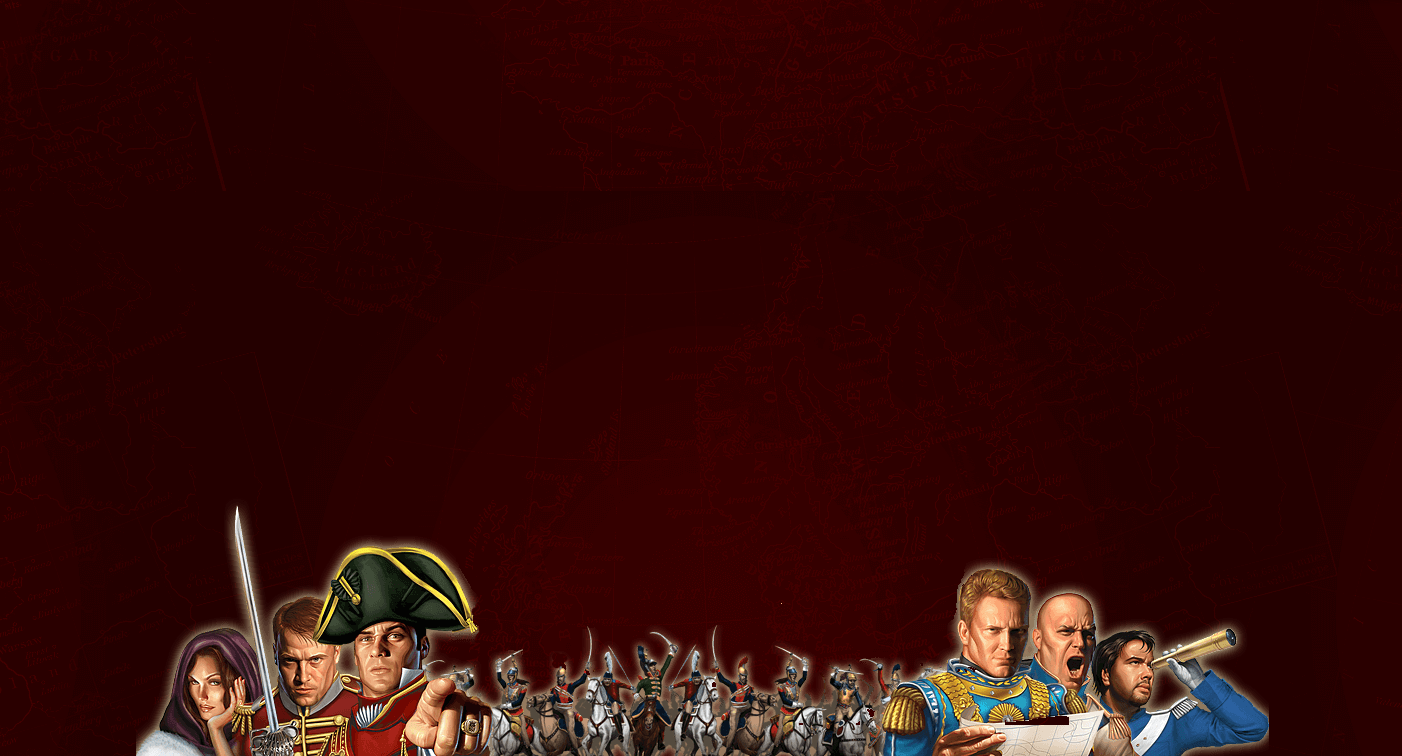
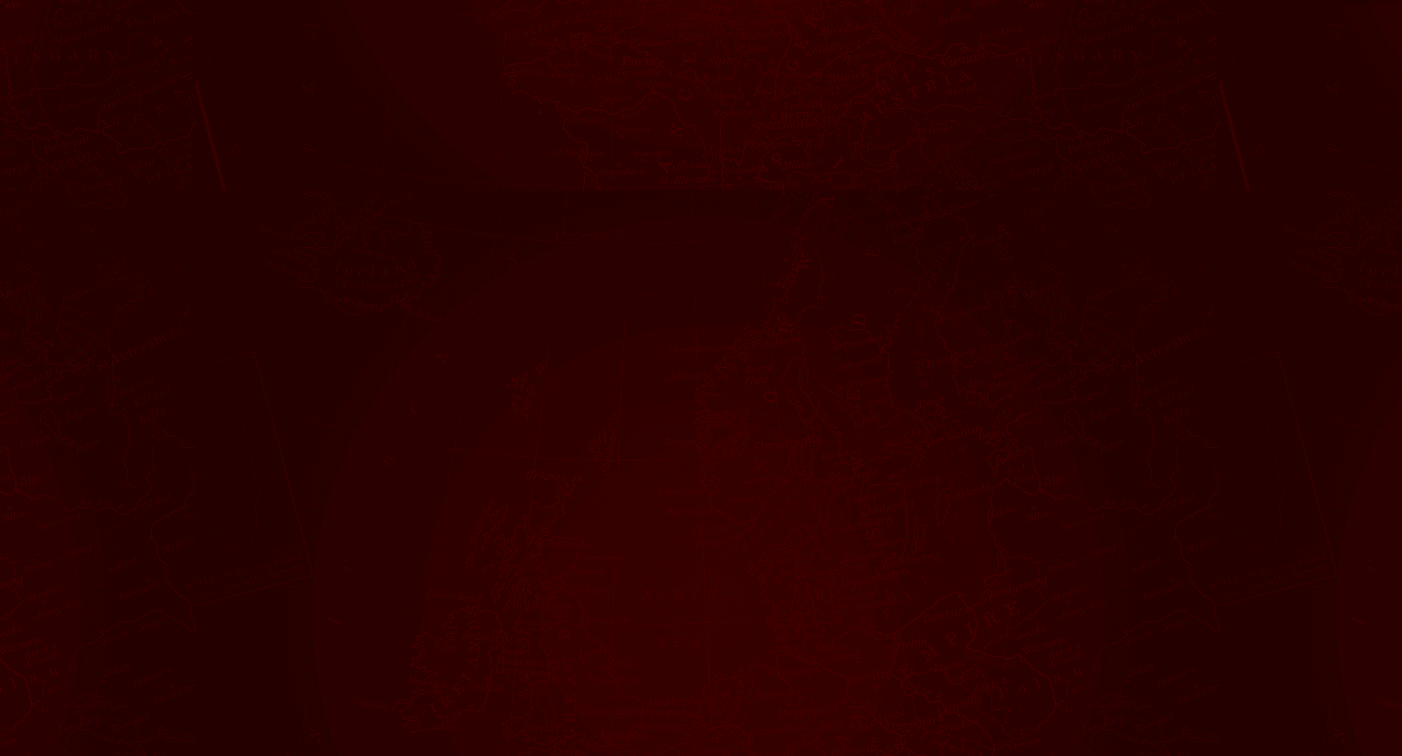
[#75] Viraj/Chandrakant - Bug fixed : removed unnecessary image.
What changes have you made?

* Removed unnecessary image from eaach page.
* Added button to go to login page from signup page.

Why do we need this change?

* To allow user to go to login page from signup page

What can this change impact?

Changed region(s): [[0.092, 0.6693, 0.9201, 1.0]]

diff --git a/public/login.html b/public/login.html
@@ -8,7 +8,8 @@
   <link href="https://fonts.googleapis.com/css?family=Alegreya" rel="stylesheet">
   <link href="https://fonts.googleapis.com/css?family=UnifrakturCook:700" rel="stylesheet">
   <link href="https://fonts.googleapis.com/css?family=Bellefair" rel="stylesheet">
-  <script type="text/javascript" src="./js/index.js" charset="utf-8"></script>
+  <link href="https://fonts.googleapis.com/css?family=Alegreya+Sans" rel="stylesheet">
+  <script type="text/javascript" src="./js/login.js" charset="utf-8"></script>
   <script defer src="https://use.fontawesome.com/releases/v5.0.7/js/all.js"></script>
 </head>
 
@@ -25,11 +26,11 @@
       <section class="fieldset">
         <div class="form-input">
           <label for="userName">username</label>
-          <input id="userName" type="text" name="username" value="" />
+          <input type="text" name="username" value="" />
         </div>
         <div class="form-input">
           <label for="password">password</label>
-          <input type="password" id="password" name="password" value="" />
+          <input type="password" name="password" value="" />
         </div>
         <input onclick="login()" type="button" value="Login">
       </section>
@@ -44,22 +45,25 @@
 
   <div class="sign-up-form overflow-model popupContent">
     <div id="sign-up-form">
+      <div class="close">
+        <a id="close-popup-button" href="login.html"><i class="fa fa-times"></i></a>
+      </div>
       <section class="fieldset">
         <div class="form-input">
           <label for="name">name</label>
-          <input id="name" type="text" name="name" value="" />
+          <input type="text" name="name" value="" />
         </div>
         <div class="form-input">
           <label for="userName">username</label>
-          <input id="userName" type="text" name="username" value="" />
+          <input type="text" name="username" value="" />
         </div>
         <div class="form-input">
           <label for="password">password</label>
-          <input type="password" id="password" name="password" value="" />
+          <input type="password" name="password" value="" />
         </div>
         <div class="form-input">
           <label for="password">confirm password</label>
-          <input type="password" id="password" name="password" value="" />
+          <input type="password" name="confirmPassword" value="" />
         </div>
         <input onclick="signup()" type="button" value="create account">
       </section>

diff --git a/public/css/login.css b/public/css/login.css
@@ -5,7 +5,7 @@ html, body {
 body {
   font-family: 'Alegreya', serif;
   text-transform: uppercase;
-  background-image: url("../img/background/background.png");
+  background-image: url("../img/background/backgroundArmy.png");
   background-size: 100% 100%;
   background-attachment: fixed;
 }
@@ -45,17 +45,25 @@ body {
   padding: 20px 20px 0px 20px;
 }
 
+#sign-up-form {
+  padding-top: 10px;
+}
+
 input:not([type="button"]) {
   font-size: 18px;
   padding: 5px 0;
   color: rgb(156, 131, 69);
   appearance: none;
-  font-family: 'Alegreya', serif;
+  font-family: 'Alegreya Sans', sans-serif;
   -webkit-appearance: none;
   outline: 0;
   border: none;
   background: none;
   border-bottom: 1px solid rgb(156, 131, 69);
+}
+
+#sign-up-form input:not([type="button"]) {
+  padding: 3px 0px;
 }
 
 input:not([type="button"]):hover {
@@ -137,4 +145,10 @@ input[type="button"]:focus {
 
 .popupContent {
   animation: animatezoom 0.6s;
+}
+
+#close-popup-button {
+  margin-left: 100%;
+  font-size: 20px;
+  color: #EDC35A;
 }

diff --git a/public/js/index.js b/public/js/index.js
@@ -91,8 +91,3 @@ const closePopup = function(){
   document.getElementById('bluebutton').style.visibility = 'visible';
   document.getElementById('helpButton').style.visibility = 'visible';
 };
-
-const showSignupPopup = () => {
-  document.querySelector('.login-form').style.display = 'none';
-  document.querySelector('.sign-up-form').style.display = 'block';
-};

diff --git a/public/js/login.js b/public/js/login.js
@@ -1,0 +1,12 @@
+const showSignupPopup = () => {
+  document.querySelector('.login-form').style.display = 'none';
+  document.querySelector('.sign-up-form').style.display = 'block';
+};
+
+const login = () => {
+  return true;
+};
+
+const signup = () => {
+  return true;
+};

diff --git a/public/css/index.css b/public/css/index.css
@@ -144,6 +144,7 @@ font-size: larger;
   height: 25px;
   width: 30px;
 }
+
 .mode{
   font-size: 30px;
   color: #EDC35A;
